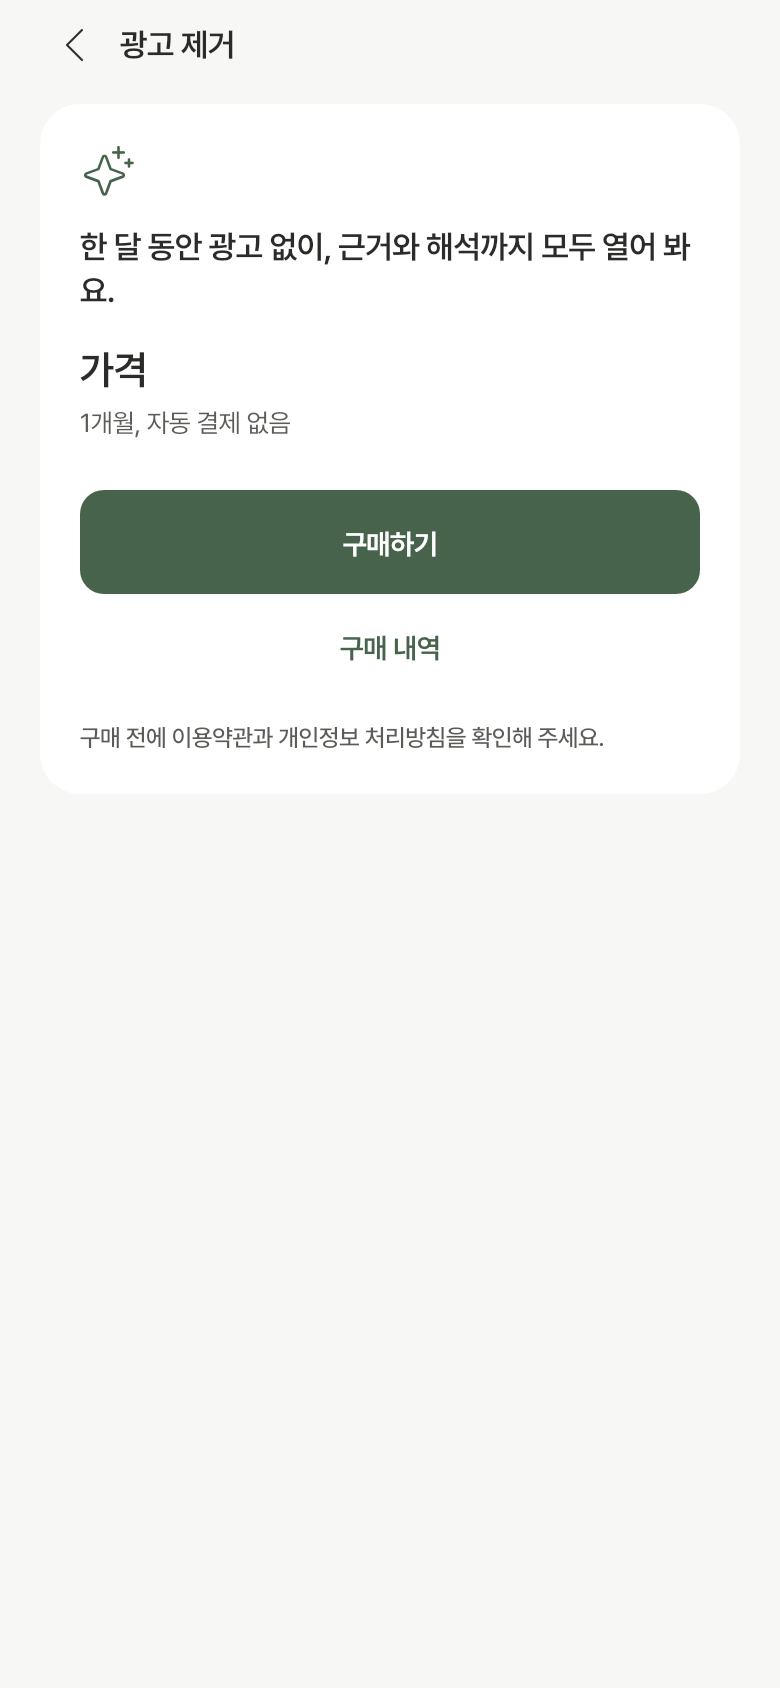
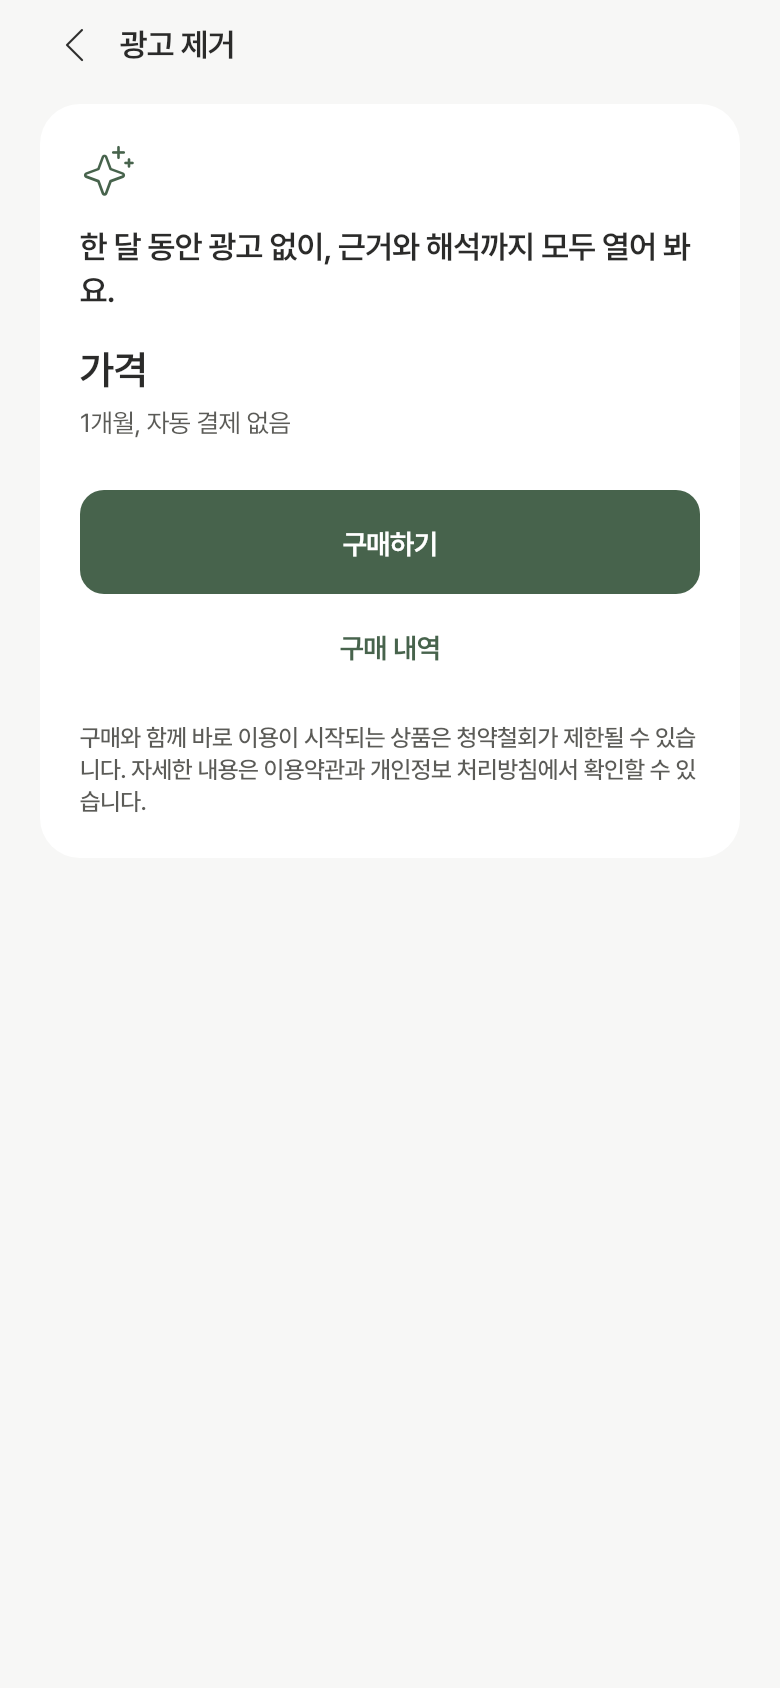
feat(app): 동의 화면 만 14세 이상 확인 항목(D127 ④, REST 1.13.0 age_14)과 구매 고지 문구(W77) (#1114, drift #1119, A146)
* REST 1.13.0 생성 코드: ConsentDocument.document age_14.
* 동의 화면: age_14를 check-row card로, 라벨 consentRequiredLabelAge, 법적 문서 페이지가 없어 '보기' 없음.
* 대역 fixture: 처음 동의하는 시나리오 일곱에 age_14(consent-renewal은 그대로).
* writing ARB 다시 가져오기: consentRequiredLabelAge, adFreeLegalNotice 청약철회 제한 고지(W77).
* 흐름 테스트와 Patrol 온보딩을 세 항목에 맞춤, golden action_offer_card(격자 높이 상한 16000), 스크린샷 consent, ad-free.
* 결정 A146, CLAUDE.md.

Claude-Session: https://claude.ai/code/session_01KrC1eUD8gYZBnEUBXGA4mg

Changed region(s): [[0.0923, 0.4313, 0.8923, 0.4929]]

diff --git a/app/test/flows/consent_flow_test.dart b/app/test/flows/consent_flow_test.dart
@@ -67,19 +67,30 @@ Future<void> _check(
   await tester.tap(
     find.descendant(
       of: _row(document),
-      matching: find.text(
-        document == ConsentDocumentDocumentEnum.terms
-            ? _ko.consentRequiredLabelTerms
-            : _ko.consentRequiredLabelPrivacy,
-      ),
+      matching: find.text(switch (document) {
+        ConsentDocumentDocumentEnum.terms => _ko.consentRequiredLabelTerms,
+        ConsentDocumentDocumentEnum.privacy => _ko.consentRequiredLabelPrivacy,
+        ConsentDocumentDocumentEnum.age14 => _ko.consentRequiredLabelAge,
+        ConsentDocumentDocumentEnum.unknownDefaultOpenApi => throw StateError(
+          '모르는 문서는 그리지 않습니다',
+        ),
+      }),
     ),
   );
   await tester.pumpAndSettle();
 }
 
+/// 화면에 그려진 동의 줄을 모두 체크합니다(시나리오마다 받는 문서가 다름).
 Future<void> _checkAll(WidgetTester tester) async {
-  await _check(tester, ConsentDocumentDocumentEnum.terms);
-  await _check(tester, ConsentDocumentDocumentEnum.privacy);
+  for (final document in [
+    ConsentDocumentDocumentEnum.terms,
+    ConsentDocumentDocumentEnum.privacy,
+    ConsentDocumentDocumentEnum.age14,
+  ]) {
+    if (find.byKey(consentDocumentKey(document)).evaluate().isNotEmpty) {
+      await _check(tester, document);
+    }
+  }
 }
 
 /// login 화면에서 카카오로 로그인해 consent에 닿을 때까지 기다립니다.
@@ -171,13 +182,16 @@ void main() {
     expect(_screen(SlotIds.consentTitleHead), findsOneWidget);
     // 갈래의 첫 화면이라 돌아갈 곳이 없어 뒤로 버튼을 두지 않습니다.
     expect(find.byKey(const ValueKey('app-bar.back')), findsNothing);
-    expect(find.byType(CheckRow), findsNWidgets(2));
+    expect(find.byType(CheckRow), findsNWidgets(3));
     expect(find.text(_ko.consentRequiredLabelTerms), findsOneWidget);
     expect(find.text(_ko.consentRequiredLabelPrivacy), findsOneWidget);
+    expect(find.text(_ko.consentRequiredLabelAge), findsOneWidget);
     expect(_agreeEnabled(tester), isFalse);
     await _check(tester, ConsentDocumentDocumentEnum.terms);
     expect(_agreeEnabled(tester), isFalse);
     await _check(tester, ConsentDocumentDocumentEnum.privacy);
+    expect(_agreeEnabled(tester), isFalse);
+    await _check(tester, ConsentDocumentDocumentEnum.age14);
     expect(_agreeEnabled(tester), isTrue);
 
     await _agreeUntil(tester, ScreenIds.notifyAsk);
@@ -187,6 +201,7 @@ void main() {
       'documents': [
         {'document': 'terms', 'version': '2026-10-01'},
         {'document': 'privacy', 'version': '2026-10-01'},
+        {'document': 'age_14', 'version': '2026-10-01'},
       ],
     });
     expect(fake.callCountOf('createProfile'), 1);
@@ -340,6 +355,20 @@ void main() {
     expect(_checked(tester, ConsentDocumentDocumentEnum.privacy), isFalse);
   });
 
+  testWidgets("만 14세 확인 줄에는 법적 문서 페이지가 없어 '보기'가 없습니다(D127 ④)", (tester) async {
+    await pumpApp(tester, scenario: 'consent-required');
+    Finder viewIn(ConsentDocumentDocumentEnum document) => find.descendant(
+      of: find.byKey(consentDocumentKey(document)),
+      matching: find.text(_ko.consentView),
+    );
+    expect(viewIn(ConsentDocumentDocumentEnum.terms), findsOneWidget);
+    expect(viewIn(ConsentDocumentDocumentEnum.privacy), findsOneWidget);
+    expect(viewIn(ConsentDocumentDocumentEnum.age14), findsNothing);
+    // 줄 자체를 눌러 체크합니다.
+    await _check(tester, ConsentDocumentDocumentEnum.age14);
+    expect(_checked(tester, ConsentDocumentDocumentEnum.age14), isTrue);
+  });
+
   testWidgets('동의 줄의 Semantics identifier는 문서별로 다릅니다', (tester) async {
     final handle = tester.ensureSemantics();
     await pumpApp(tester, scenario: 'consent-required');
@@ -349,6 +378,10 @@ void main() {
     );
     expect(
       find.bySemanticsIdentifier('consent.required.label.privacy'),
+      findsOneWidget,
+    );
+    expect(
+      find.bySemanticsIdentifier('consent.required.label.age_14'),
       findsOneWidget,
     );
     handle.dispose();
@@ -459,6 +492,7 @@ void main() {
     expect(find.text(_ko.errorConsentVersionMismatch), findsOneWidget);
     expect(_checked(tester, ConsentDocumentDocumentEnum.terms), isFalse);
     expect(_checked(tester, ConsentDocumentDocumentEnum.privacy), isFalse);
+    expect(_checked(tester, ConsentDocumentDocumentEnum.age14), isFalse);
     expect(_agreeEnabled(tester), isFalse);
 
     // 다시 동의하면 새로 받은 버전을 보냅니다.
@@ -472,6 +506,7 @@ void main() {
     expect(second['documents'], [
       {'document': 'terms', 'version': '2026-10-10'},
       {'document': 'privacy', 'version': '2026-10-01'},
+      {'document': 'age_14', 'version': '2026-10-01'},
     ]);
   });
 

diff --git a/app/lib/features/auth/presentation/consent_screen.dart b/app/lib/features/auth/presentation/consent_screen.dart
@@ -40,7 +40,7 @@ Key consentDocumentKey(ConsentDocumentDocumentEnum document) =>
 /// 동의 줄의 Semantics identifier.
 ///
 /// IA에는 필수 항목 슬롯(`consent.required.label`)이 하나뿐인데 줄은 문서마다 있어,
-/// E2E가 줄을 구분할 수 있게 슬롯 id에 문서 값(`terms`·`privacy`)을 붙입니다.
+/// E2E가 줄을 구분할 수 있게 슬롯 id에 문서 값(`terms`, `privacy`, `age_14`)을 붙입니다.
 String consentRowIdentifier(ConsentDocumentDocumentEnum document) =>
     '${SlotIds.consentRequiredLabel}.${document.value}';
 
@@ -154,9 +154,15 @@ class _ConsentScreenState extends ConsumerState<ConsentScreen> {
                               ? null
                               : (value) =>
                                     _toggle(document.document, value: value),
-                          viewLabel: l10n.consentView,
-                          onView: () =>
-                              context.push<void>(pathOf(ScreenIds.legal)),
+                          // 만 14세 확인은 법적 문서 페이지가 없어 '보기'를 두지
+                          // 않습니다(D127 ④, A146).
+                          viewLabel: _hasDocumentPage(document.document)
+                              ? l10n.consentView
+                              : null,
+                          onView: _hasDocumentPage(document.document)
+                              ? () =>
+                                    context.push<void>(pathOf(ScreenIds.legal))
+                              : null,
                           identifier: consentRowIdentifier(document.document),
                         ),
                       ),
@@ -201,8 +207,19 @@ String _requiredLabel(
 ) => switch (document) {
   ConsentDocumentDocumentEnum.terms => l10n.consentRequiredLabelTerms,
   ConsentDocumentDocumentEnum.privacy => l10n.consentRequiredLabelPrivacy,
+  ConsentDocumentDocumentEnum.age14 => l10n.consentRequiredLabelAge,
   // 모르는 문서는 displayableConsents가 걸러 내 여기에 오지 않습니다(A66).
   ConsentDocumentDocumentEnum.unknownDefaultOpenApi => throw StateError(
     '모르는 동의 문서는 그리지 않습니다',
   ),
 };
+
+/// 법적 문서 페이지가 있어 '보기'로 열 수 있는 동의 문서인지. 만 14세 확인(`age_14`)은
+/// 페이지가 없습니다(openapi 1.13.0 `ConsentDocument`, `AppConfig.legal`에 주소 없음).
+bool _hasDocumentPage(ConsentDocumentDocumentEnum document) =>
+    switch (document) {
+      ConsentDocumentDocumentEnum.terms ||
+      ConsentDocumentDocumentEnum.privacy => true,
+      ConsentDocumentDocumentEnum.age14 ||
+      ConsentDocumentDocumentEnum.unknownDefaultOpenApi => false,
+    };

diff --git a/app/lib/core/l10n/gen/app_localizations.dart b/app/lib/core/l10n/gen/app_localizations.dart
@@ -1129,7 +1129,7 @@ abstract class AppLocalizations {
   /// ad-free.legal.notice: 이용약관·개인정보처리방침 링크 안내
   ///
   /// In ko, this message translates to:
-  /// **'구매 전에 이용약관과 개인정보 처리방침을 확인해 주세요.'**
+  /// **'구매와 함께 바로 이용이 시작되는 상품은 청약철회가 제한될 수 있습니다. 자세한 내용은 이용약관과 개인정보 처리방침에서 확인할 수 있습니다.'**
   String get adFreeLegalNotice;
 
   /// ad-free.offer.head: 광고 제거권이 주는 것 한 줄(배너 제거, 근거·해석 열림, D60)
@@ -3473,6 +3473,12 @@ abstract class AppLocalizations {
   /// In ko, this message translates to:
   /// **'({stemName})'**
   String sajuChartManseBasisStemSuffix(String stemName, String reading);
+
+  /// consent.required.label: 필수 동의 항목 이름
+  ///
+  /// In ko, this message translates to:
+  /// **'(필수) 만 14세 이상입니다'**
+  String get consentRequiredLabelAge;
 }
 
 class _AppLocalizationsDelegate

diff --git a/app/lib/core/l10n/gen/app_localizations_ja.dart b/app/lib/core/l10n/gen/app_localizations_ja.dart
@@ -559,7 +559,8 @@ class AppLocalizationsJa extends AppLocalizations {
   String get accountDeleteTitleHead => 'アカウント削除';
 
   @override
-  String get adFreeLegalNotice => '購入前に利用規約とプライバシーポリシーをご確認ください。';
+  String get adFreeLegalNotice =>
+      '購入と同時に利用が始まる商品は、申込みの撤回が制限されることがあります。詳しくは利用規約とプライバシーポリシーでご確認いただけます。';
 
   @override
   String get adFreeOfferHead => '1か月間、広告なしで、根拠と解釈まですべて開いて見られます。';
@@ -1931,4 +1932,7 @@ class AppLocalizationsJa extends AppLocalizations {
   String sajuChartManseBasisStemSuffix(String stemName, String reading) {
     return '（$reading）';
   }
+
+  @override
+  String get consentRequiredLabelAge => '(必須)満14歳以上です';
 }

diff --git a/app/lib/core/l10n/gen/app_localizations_ko.dart b/app/lib/core/l10n/gen/app_localizations_ko.dart
@@ -561,7 +561,8 @@ class AppLocalizationsKo extends AppLocalizations {
   String get accountDeleteTitleHead => '계정 삭제';
 
   @override
-  String get adFreeLegalNotice => '구매 전에 이용약관과 개인정보 처리방침을 확인해 주세요.';
+  String get adFreeLegalNotice =>
+      '구매와 함께 바로 이용이 시작되는 상품은 청약철회가 제한될 수 있습니다. 자세한 내용은 이용약관과 개인정보 처리방침에서 확인할 수 있습니다.';
 
   @override
   String get adFreeOfferHead => '한 달 동안 광고 없이, 근거와 해석까지 모두 열어 봐요.';
@@ -1934,4 +1935,7 @@ class AppLocalizationsKo extends AppLocalizations {
   String sajuChartManseBasisStemSuffix(String stemName, String reading) {
     return '($stemName)';
   }
+
+  @override
+  String get consentRequiredLabelAge => '(필수) 만 14세 이상입니다';
 }

diff --git a/app/lib/core/l10n/gen/app_localizations_en.dart b/app/lib/core/l10n/gen/app_localizations_en.dart
@@ -611,7 +611,7 @@ class AppLocalizationsEn extends AppLocalizations {
 
   @override
   String get adFreeLegalNotice =>
-      'Please review the Terms of Service and Privacy Policy before purchasing.';
+      'Withdrawal of subscription may be restricted for products whose use begins immediately upon purchase. Details are in the Terms of Service and Privacy Policy.';
 
   @override
   String get adFreeOfferHead =>
@@ -2064,4 +2064,7 @@ class AppLocalizationsEn extends AppLocalizations {
   String sajuChartManseBasisStemSuffix(String stemName, String reading) {
     return ' ($stemName)';
   }
+
+  @override
+  String get consentRequiredLabelAge => '(Required) I am 14 or older';
 }

diff --git a/app/patrol_test/onboarding_test.dart b/app/patrol_test/onboarding_test.dart
@@ -65,8 +65,12 @@ void main() {
     await $(SocialLoginButton).first.tap();
 
     await expectScreen($, ScreenIds.consent);
-    await $(CheckRow).at(0).tap();
-    await $(CheckRow).at(1).tap();
+    // 필수 동의 줄(이용약관, 개인정보, 만 14세 확인)을 모두 체크합니다.
+    final rows = find.byType(CheckRow).evaluate().length;
+    expect(rows, 3);
+    for (var index = 0; index < rows; index++) {
+      await $(CheckRow).at(index).tap();
+    }
     await $(
       find.descendant(
         of: find.byKey(const ValueKey(ScreenIds.consent)),

diff --git a/app/test/support/golden.dart b/app/test/support/golden.dart
@@ -81,7 +81,9 @@ Future<void> goldenMatrix(
       (goldenTextScales.length + 1) * _gap;
   tester.view
     ..devicePixelRatio = 1
-    ..physicalSize = Size(width, 12000);
+    // 세로는 가장 긴 격자(offer-card 다섯 상태 × 네 줄)가 들어가는 상한입니다. 저장은
+    // gridKey 영역만이라 이 값은 이미지 크기에 들어가지 않습니다.
+    ..physicalSize = Size(width, 16000);
   addTearDown(tester.view.reset);
 
   final rows = <Widget>[

diff --git a/app/test/flows/new_user_flow_test.dart b/app/test/flows/new_user_flow_test.dart
@@ -103,6 +103,7 @@ void main() {
     await pumpUntilScreen(tester, ScreenIds.consent);
     await _checkDocument(tester, ConsentDocumentDocumentEnum.terms);
     await _checkDocument(tester, ConsentDocumentDocumentEnum.privacy);
+    await _checkDocument(tester, ConsentDocumentDocumentEnum.age14);
 
     // 동의 → 프로필 저장 → 알림 → 광고 동의 → today
     await tester.tap(

diff --git a/app/lib/core/api/gen/model/consent_document.g.dart b/app/lib/core/api/gen/model/consent_document.g.dart
@@ -99,5 +99,6 @@ Map<String, dynamic> _$ConsentDocumentToJson(ConsentDocument instance) =>
 const _$ConsentDocumentDocumentEnumEnumMap = {
   ConsentDocumentDocumentEnum.terms: 'terms',
   ConsentDocumentDocumentEnum.privacy: 'privacy',
+  ConsentDocumentDocumentEnum.age14: 'age_14',
   ConsentDocumentDocumentEnum.unknownDefaultOpenApi: 'unknown_default_open_api',
 };

diff --git a/app/lib/core/api/gen/model/consent_document.dart b/app/lib/core/api/gen/model/consent_document.dart
@@ -56,6 +56,8 @@ enum ConsentDocumentDocumentEnum {
   terms(r'terms'),
   @JsonValue(r'privacy')
   privacy(r'privacy'),
+  @JsonValue(r'age_14')
+  age14(r'age_14'),
 
   /// 계약에 아직 없는 값. 열린 enum이라 모르는 값은 응답 decode를 실패시키지 않고 이 값이 됩니다(결정 A66).
   @JsonValue(r'unknown_default_open_api')

diff --git a/app/test/flows/profile_name_rejection_flow_test.dart b/app/test/flows/profile_name_rejection_flow_test.dart
@@ -46,6 +46,7 @@ Future<void> _signInAndAgree(WidgetTester tester) async {
   for (final label in [
     _ko.consentRequiredLabelTerms,
     _ko.consentRequiredLabelPrivacy,
+    _ko.consentRequiredLabelAge,
   ]) {
     await tester.tap(find.text(label));
     await tester.pumpAndSettle();
